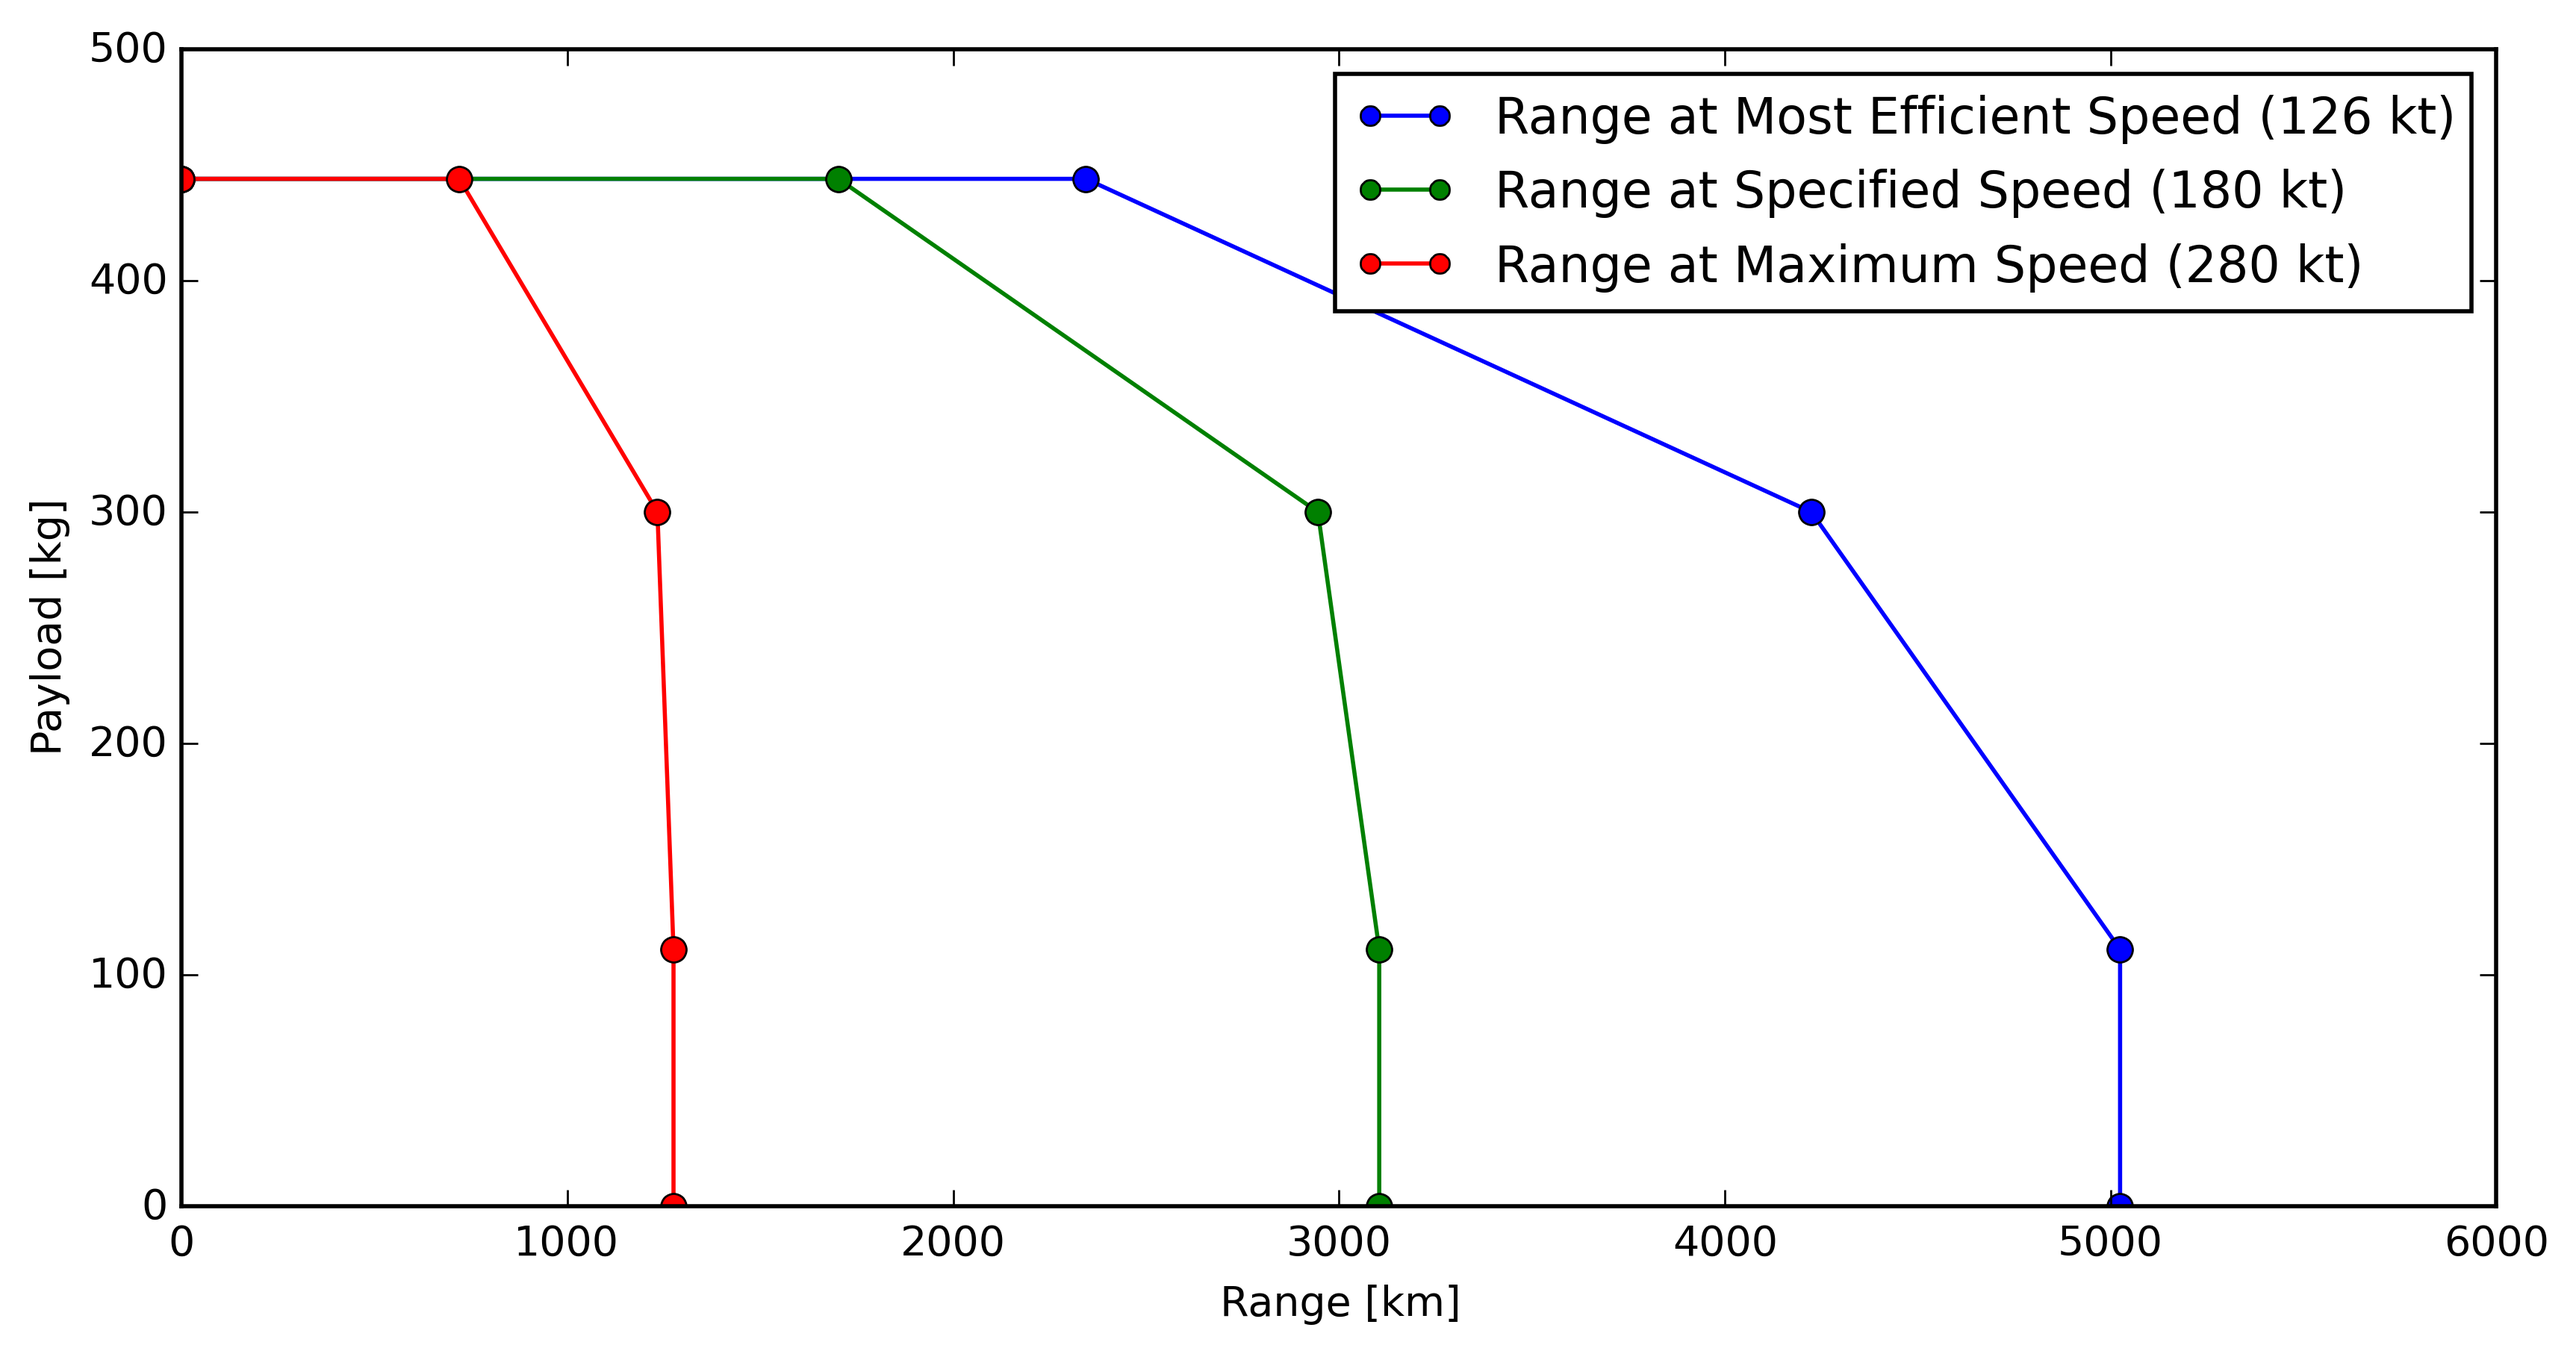
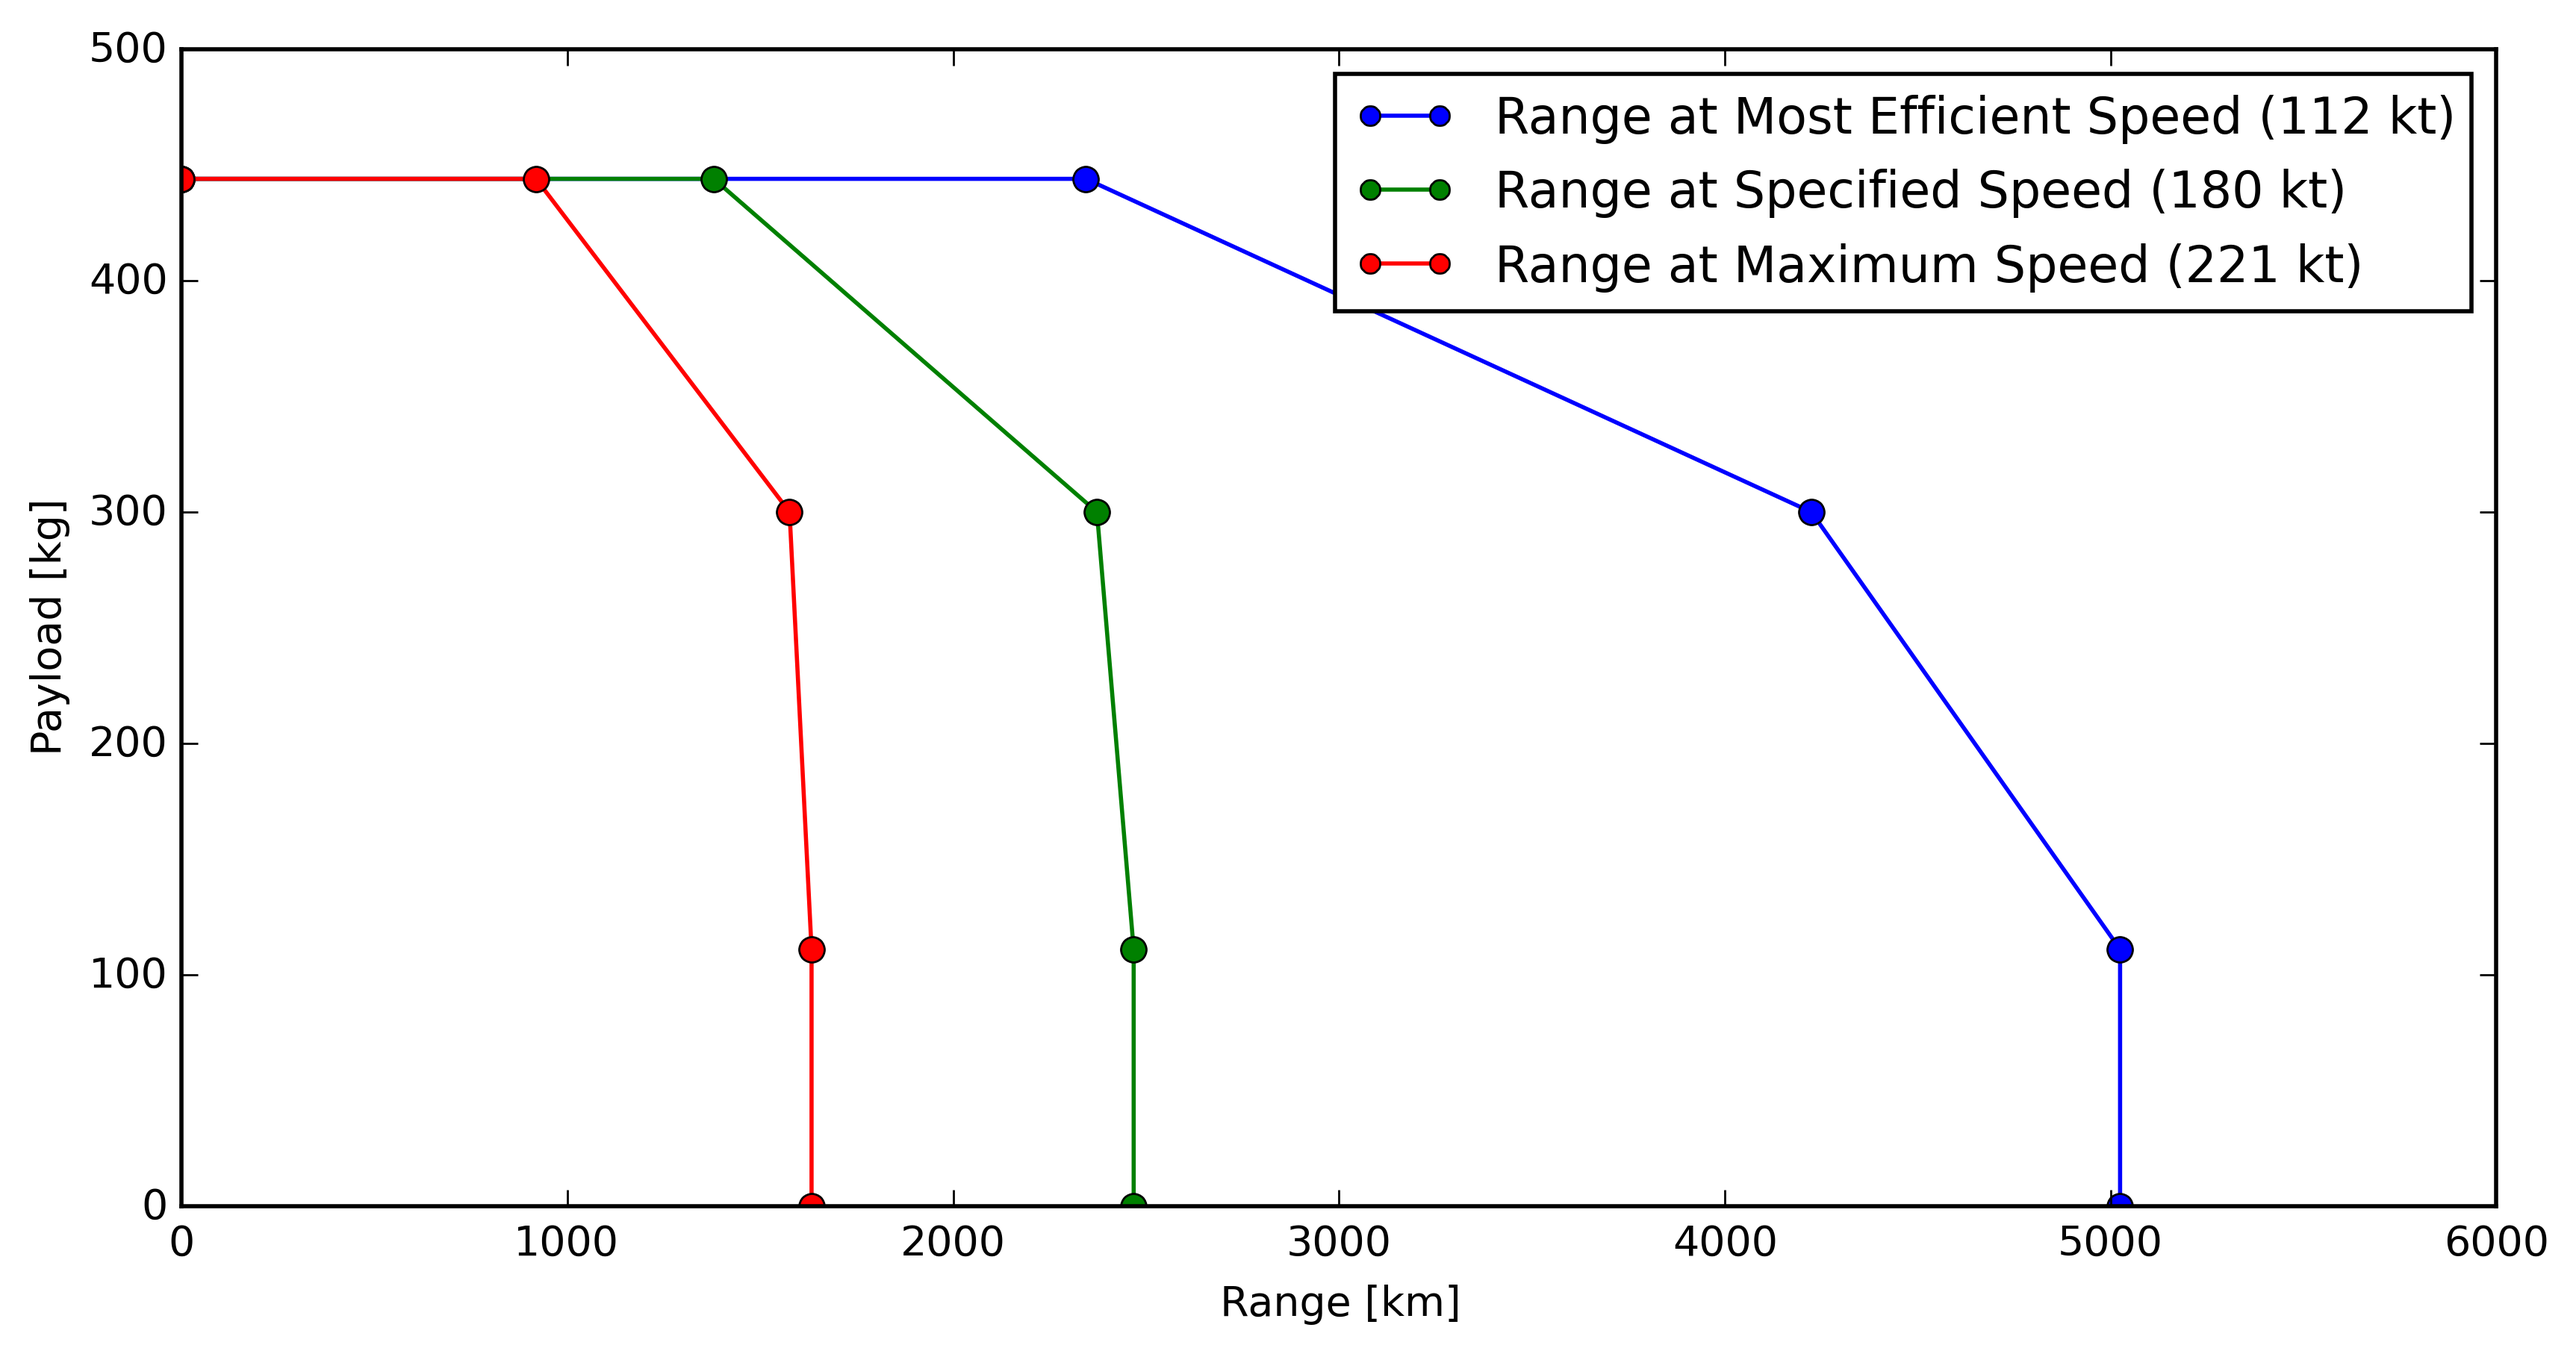
a

diff --git a/FPP/CruiseRange.py b/FPP/CruiseRange.py
@@ -38,8 +38,17 @@ airfoil_path = os.getcwd() + '\Polars\Eppler_prop.npz'
 h=1200
 V=100
 rps = 2800./60
+#V_array = np.arange(5,150,1)
+#
+#thrust, torque, power_available = Analyse_prop(airfoil_path, h, V, rps)
+#PowerAva_simple = []
+#V_array_simple = [10,40,80,120,150]
+#for V in V_array_simple:
+#    thrust, torque, power_available = Analyse_prop(airfoil_path, h, V, rps)
+#    PowerAva_simple.append(power_available)
+#fit = np.polyfit(V_array_simple, PowerAva_simple, 1)
+#PowerAva = V_array * fit[0] + fit[1]
 
-thrust, torque, power_available = Analyse_prop(airfoil_path, h, V, rps, pitch = 0.0)
 ###################################################################################################
 def calcPowerReq(W,V,S,h): # Calc Power Required [W] in steady cruise conditions for one or multiple TAS. Weight in Newton.
     rho = ISA.Dens(h)
@@ -68,11 +77,20 @@ def calcPowerReq(W,V,S,h): # Calc Power Required [W] in steady cruise conditions
 #    return PowerReq, LD, T
 
 def calcVminmax(W,V_array,S,h):
-    PowerAva = []
-    for V in V_array:
-        thrust, torque, power_available = Analyse_prop(airfoil_path, h, V, rps, pitch = 0.0)
-        PowerAva.append(power_available)
-        
+    PowerAva_simple = []
+    V_array_simple = [10,40,80,120,150]
+    for V in V_array_simple:
+        thrust, torque, power_available = Analyse_prop(airfoil_path, h, V, rps)
+        PowerAva_simple.append(power_available)
+    fit = np.polyfit(V_array_simple, PowerAva_simple, 1)
+    PowerAva = V_array * fit[0] + fit[1]
+
+#    PowerAva = []
+#    for V in V_array:
+#        thrust, torque, power_available = Analyse_prop(airfoil_path, h, V, rps)
+#        PowerAva.append(power_available)
+#    PowerAva = np.array(PowerAva)
+    
     PowerReq, LD = calcPowerReq(W,V_array,S,h)
 #    PowerAva = 450/0.00135 * np.ones(len(V_array)) # [W] calcPowerAva() !!!!!!!!
     where = np.where(PowerReq < PowerAva)[0]
@@ -88,6 +106,18 @@ def calcPowerCruise(W_cruise,V_array,S,h_cruise): # Calc Power Required for most
     V_Cruise_eff = V_array[where]    
     return PowerCruise_eff, V_Cruise_eff, LD_Cruise_eff # have to include engine efficiency at different speeds !!!!!!!!!!!!
 
+def calcPowerAva_alt(h_max,h_acc,h_acc_fit):
+    PowerAva_simple = []
+    h = np.arange(0,h_max,h_acc_fit)
+    h_simple = np.arange(0,h_max,h_acc_fit)
+    for h in h_simple:
+        
+        thrust, torque, power_available = Analyse_prop(airfoil_path, h, V, rps)
+        PowerAva_simple.append(power_available)
+    fit = np.polyfit(h_simple, PowerAva_simple, 3)
+    PowerAva_alt = fit[0]*h**3 + fit[1]*h**2 + fit[2]*h + fit[3]
+    return PowerAva_alt
+
 def calcAltMax(W_cruise,V_array,S):
     PowerCruise_alt = []
     V_Cruise_alt = []
@@ -99,6 +129,16 @@ def calcAltMax(W_cruise,V_array,S):
         V_Cruise_alt.append(V_Cruise_eff)
         PowerAva_alt.append(450/0.00135 - h*30) # UPDATE !!!!!!
     PowerCruise_alt = np.array(PowerCruise_alt)
+    
+    thrust, torque, power_available = Analyse_prop(airfoil_path, h, V, rps)
+    PowerAva_simple = []
+    h_cruise_simple = np.arange(0,18000,500)
+    for V in V_array_simple:
+        thrust, torque, power_available = Analyse_prop(airfoil_path, h, V, rps)
+        PowerAva_simple.append(power_available)
+    fit = np.polyfit(V_array_simple, PowerAva_simple, 1)
+    PowerAva = V_array * fit[0] + fit[1]
+    
     PowerAva_alt = np.array(PowerAva_alt)
     where = np.where(PowerCruise_alt < PowerAva_alt)[0][-1]
     h_max = h_cruise[where]
@@ -155,14 +195,14 @@ def calcCruise(MTOW,OEW,Mfuelmax,PL,S,V_acc): # Payload [kg], speed analysis acc
 #    Mfuelmax = 450 # Maximum fuel tank capacity [kg]
 #    S = 20 # Wing surface [m^2]
     prop_eff = 0.9
-    cp = 0.408 / 3.6E6 # [kg/J] UPDATE for different speeds and altitudes
+    cp = 1.04302E-7 # [kg/J] UPDATE for different speeds and altitudes
     E = 45*60 # Required endurance / Loiter duration [s]
     h_cruise = 18000 * 0.3048 # Cruise altitude [m]
     h_loiter = 3000 * 0.3048 # Loiter altitude [m]
     g = 9.81
     Mff_start = 0.965 # 0.990*0.995*0.995*0.985 # Fuel fraction from start to cruise altitude
     Mff_end = 0.98 # 0.985*0.995 # Fuel fraction from end loiter phase to end flight
-    V_array = np.arange(5,150,V_acc) # Set range and accuracy of speed analysis [m/s] !!!!!!!
+    V_array = np.arange(10,150,V_acc) # Set range and accuracy of speed analysis [m/s] !!!!!!!
     V_Cruise_spec = 92.6 # Specified cruise speed [m/s]
     
     W_loiter = ((OEW + PL) / Mff_end) * g * 1.005 # Weight at end of loiter phase [kg], multiplied by some factor
@@ -260,9 +300,9 @@ def CruisePlots(MTOW,OEW,Mfuelmax,S,V_acc):
     
    
 
-#Range, Speed = CruisePlots(1700,950,450,20,0.01)
-#
-R_eff, R_spec, R_Vmax, V_Cruise_eff, V_Cruise_spec, V_max, PowerReq, PowerAva, PowerCruise_spec, V_min, V_Loiter, V_array = calcCruise(1700,950,450,444,20,0.01)
+Range, Speed = CruisePlots(1700,950,450,20,0.01)
+##
+#R_eff, R_spec, R_Vmax, V_Cruise_eff, V_Cruise_spec, V_max, PowerReq, PowerAva, PowerCruise_spec, V_min, V_Loiter, V_array = calcCruise(1700,950,450,444,20,0.01)
 
 
 #h_cruise = 18000 * 0.3048 # Cruise altitude [m]
